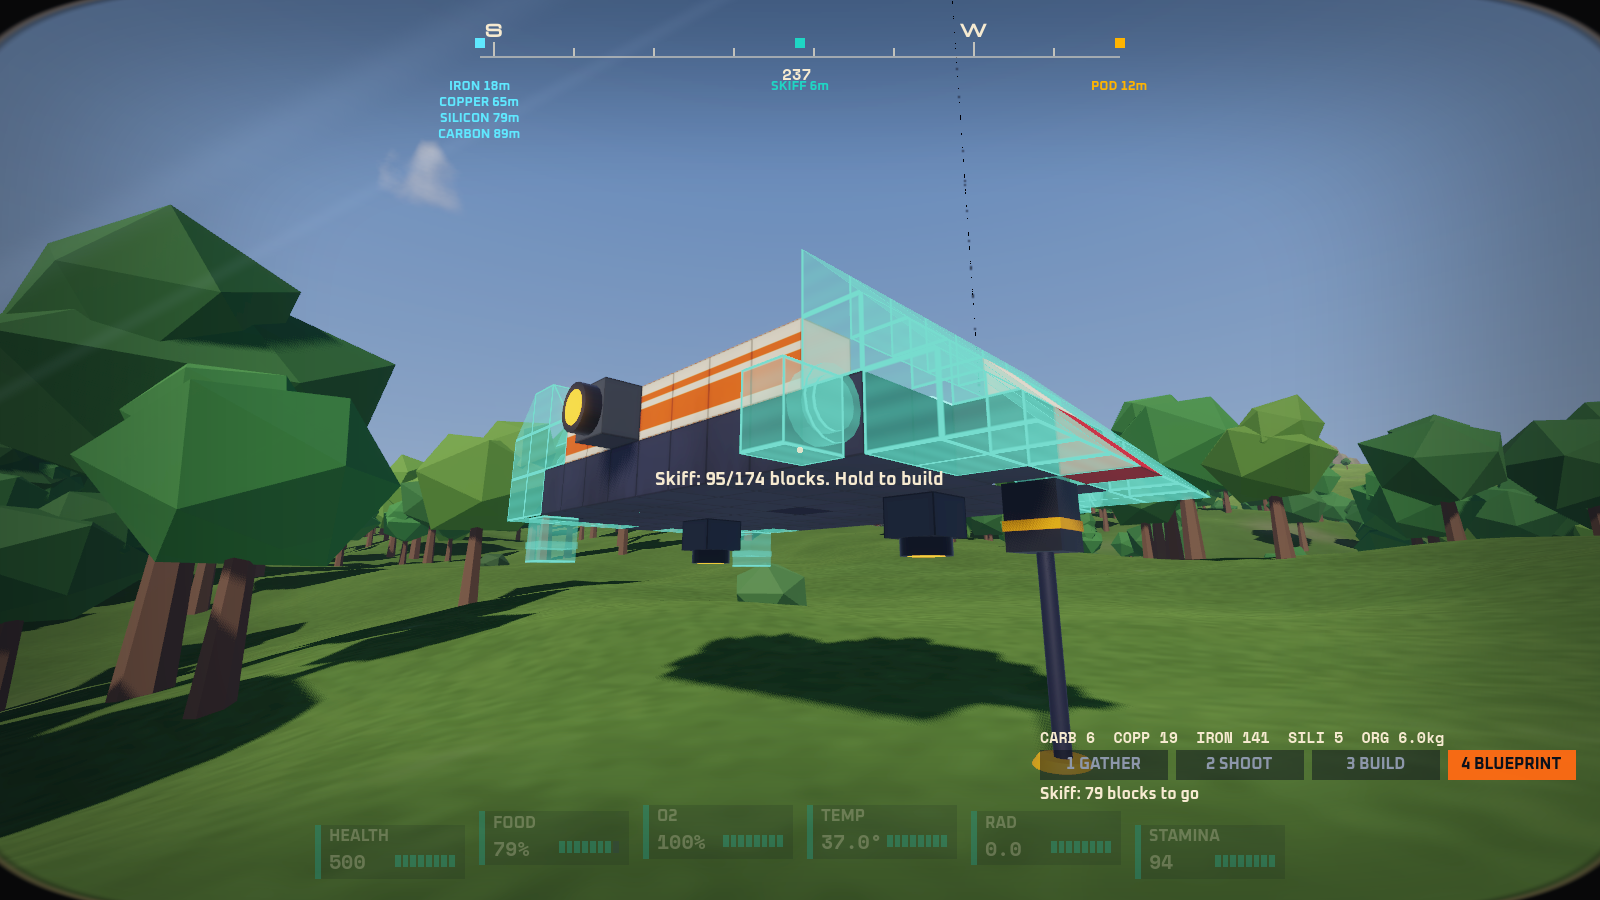
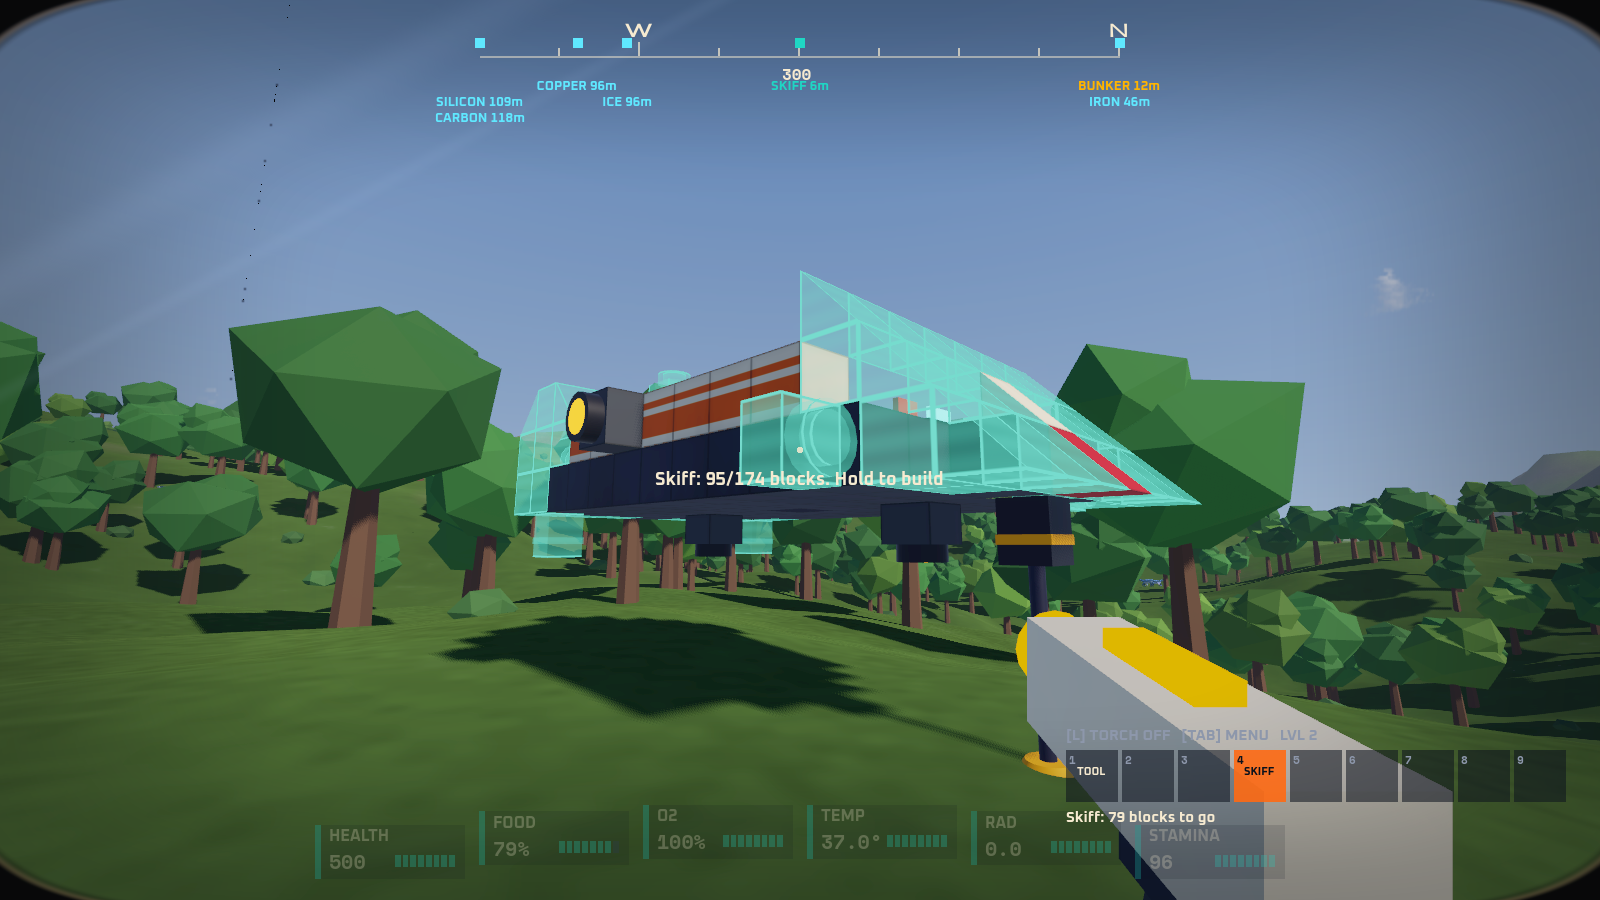
README and screenshots for fresh seeds and the bunker start
The README describes the start screen, the world choice and the cryo bunker, with the three
tests' latest results; new screenshots of the bunker's chamber, the climb out and a shot on
its wall, and the menu tabs rendered again; the pod's screenshot is gone with the pod.

diff --git a/prototypes/slice/README.md b/prototypes/slice/README.md
@@ -1,13 +1,15 @@
 # Prototype: the slice (phase 1, the ground loop)
 
-The first playable slice of GalHack's core loop, built from the proven prototypes and nothing else: crash-land in an escape pod on a generated planet, walk out of it, survive, gather, craft, found a base, run its machines, build a small vessel block by block and fly it. Every system is compiled in from where it lives; the slice itself is glue, a game layer and its tests.
+The first playable slice of GalHack's core loop, built from the proven prototypes and nothing else: wake in a buried cryopod bunker on a freshly generated planet, climb out, survive, gather, craft, found a base, run its machines, build a small vessel block by block and fly it. Every system is compiled in from where it lives; the slice itself is glue, a game layer and its tests.
 
+![Waking in the bunker: the one working cryopod open, the other sleepers dead in theirs](screenshots/bunker.png)
+![Climbing the bunker's stairwell, its fallen-in top open to the morning sky](screenshots/climb.png)
 ![The Tab menu, YOU: the bag and toolbar, the paperdoll with its equipment and vitals, the suit fabricator](screenshots/menu-you.png)
 ![The Tab menu, CORE: a placed survival constructor making a base core](screenshots/menu-core.png)
 ![The Tab menu, TECH: the base tree](screenshots/menu-tech.png)
 ![A creature's body opened beside the bag](screenshots/loot.png)
 ![A bolt in flight from the tool's muzzle, the sparks and scorches of the shots before it](screenshots/bolt.png)
-![Inside the pod: a shot scorches its wall, harmlessly](screenshots/podshot.png)
+![Inside the bunker: a shot scorches its wall, harmlessly](screenshots/bunkershot.png)
 ![Night, the head torch on](screenshots/torch.png)
 ![A base built by hand: core, container, generator, small constructor, steel; the survival constructor beside it](screenshots/base.png)
 ![A small vessel built by hand on its core, lifting off](screenshots/vessel.png)
@@ -20,11 +22,11 @@ Phase 1 is the ground loop. Orbit and boarding (phase 2) wait for the owner's go
 .\tools\godot.ps1 -Project prototypes/slice -Play
 ```
 
-The pod comes down at dawn. **F** unstraps you. **E** on the yellow locker inside opens it beside your bag: **TAKE ALL**. Walk out of the hatch. The compass shows the nearest deposit of each common ore and drops one once it is dug out.
+A new game opens on the start screen: **Survival** or **Creative**, the planet type (**temperate** is the easy one; ice, alien swamp, barren, lava, or random) and a seed (leave it empty for a fresh world, or type one to replay it). Then you wake at dawn in a cryopod. **F** opens it. **E** on the orange locker opens it beside your bag: **TAKE ALL**. Climb the stairs to the surface. The compass shows the nearest deposit of each common ore and drops one once it is dug out.
 
 ### The loop (Survival)
 
-1. **The crash.** Walk out of the pod's door and back in; the locker has food, patch kits and air cells.
+1. **The bunker.** Get out of the cryopod and empty the locker (food, patch kits, air cells); the stairwell climbs to the surface. Come back down whenever you like: it is your respawn point, but too small and broken to build on.
 2. **Gather.** The survival tool is on toolbar slot 1 (and in your hands). Hold the left button on ore to dig it (12 raw ore a cell), on a plant to cut it (biomass). **Q** switches it to shooting: a bolt you can see, sparks and a scorch where it lands. Shots only hurt creatures.
 3. **The suit fabricator** (Tab, YOU) makes the bare minimum from raw finds: the survival tool, rations, patch kits, air cells and a **placeable survival constructor**. It works while you play.
 4. **The survival constructor.** Drag it onto the toolbar, select it and click open ground. **E** on it opens its hopper beside your bag (STORE ALL); its panel is on Tab, **CORE**, when you stand by it. It refines ore into parts and makes the **base core**, the first blocks' parts and the next constructor up.
@@ -56,7 +58,7 @@ The Skiff blueprint is still there as a shortcut: drag **BLUEPRINT PROJECTOR** f
 | Tab | The menu (the game doesn't pause; you can still walk) | |
 | H, B | Helmet, the survival replicator | |
 | V | Third person | Chase camera |
-| R (dead) | Wake at the pod (your backpack stays where you fell, on the compass) | |
+| R (dead) | Wake in the bunker (your backpack stays where you fell, on the compass) | |
 | F3, Esc | Debug numbers, free the mouse | |
 
 ### The Tab menu
@@ -69,7 +71,7 @@ One full-screen menu, styled as the suit's own terminal (the diegetic UI's scree
 | **TECH** | The tech tree: Base, Capital Vessel, Small Vessel, Hover Vessel, Tools, Weapons, Misc. Nodes in columns by level, joined to their parents; locked nodes say what they need (level, points, parent); click one you can afford |
 | **STATS** | What you have done since the crash, and the master volume |
 | **CORE** | The structure you are in or next to (or a device you stand by), the nearest picked, a button to switch: its manufacturing (each constructor's orders above, its own sub-parts below, missing materials, ammo restock), its storage, its settings (core mode, gravity, power, lights, Home, auto-transmit) and its numbers (mass, power, CPU, storage; a vessel's four numbers, turn cap and lift margin) |
-| **MAP** | 300 or 600 m round you: structures, devices, the pod, your backpack, bodies and drops, the nearest deposits, creatures |
+| **MAP** | 300 or 600 m round you: structures, devices, the bunker, your backpack, bodies and drops, the nearest deposits, creatures |
 
 The visor stays minimal: vitals, warnings, the compass with contacts, the toolbar, what is in hand and its keys, the torch, short **+XP** lines and a **LEVEL UP** banner that never blocks play.
 
@@ -80,7 +82,7 @@ The visor stays minimal: vitals, warnings, the compass with contacts, the toolba
 | Physics | `shared/Physics` | One physics world for the zone: the survivor on the shared walk controller, riding hulls in cabin worlds and stepping off them onto the ground (`Riding.StepsOntoGround`), bases as fixed bodies walked on in the zone's world, every vessel one body flown by the handling model through the physics sandbox's bridges |
 | Items | `shared/Items` | The catalogue with the slice's additions (`data/items.json`, appended as it loads), `SharedStorage` under every bag, container and structure, `Constructor` for the suit fabricator, the survival constructor and every constructor block, `BlockPlacer` prices and refunds, `WorldRules` for Survival and Creative, the unlock and stack fields |
 | Terrain | `shared/Terrain`, `terrain-digging` | The planet as diggable voxels. `PlanetEdits` is the physics module's terrain editor; a base's blocks cut the ground they reach into |
-| Planet | `planet-generator`, `planet-surface` | The temperate starter world, streamed by planet-surface's `TerrainStreamer` with its sky, sea, fog and flora; trees are solid and felled for good |
+| Planet | `planet-generator`, `planet-surface` | A fresh world every game (the tests pin seed 7, temperate), streamed by planet-surface's `TerrainStreamer` with its sky, sea, fog and flora; trees are solid and felled for good |
 | Weather | `weather`, `planet-surface` | The weather model pushes bodies; planet-surface's effects and its wind and rain sounds |
 | Wildlife | `wildlife` | The planet's fauna on a patch that follows you, solid to you (blockers on the props layer), each species worth XP by toughness and danger; a dead creature's body is a container holding its drops |
 | Survival | `survival-vitals` | The suit (food, oxygen, temperature, radiation, stamina, health), warned before harm |
@@ -114,9 +116,10 @@ Expected time to each gate for an experienced player (from the real-player test'
 
 - **Warned before any harm.** Impacts use the physics module's one formula in full; the visor flashes IMPACT only while the body is airborne **and coming down** faster than the safe speed, never while lifting off on the jetpack. A creature's wind-up is heard and shown (THREAT) before its lunge.
 - **Nothing a player owns disappears.** A full bag sets things down in a container on the ground; a refund with nowhere to go likewise; a dead player's whole inventory is a backpack where they fell, marked on the compass and the map; bodies and drops stay until emptied.
-- **Every interaction asks the world you are in.** Aboard a structure, E, the tool and the build tool ray through its cabin world (a still copy of its blocks) as well as the zone's world beyond, so the locker answers from inside, a shot inside the pod scorches its wall (harmlessly) and the tool never digs through a floor.
+- **Every interaction asks the world you are in.** Aboard a structure, E, the tool and the build tool ray through its cabin world (a still copy of its blocks) as well as the zone's world beyond, so a locker answers from inside, a shot inside a structure scorches its wall (harmlessly) and the tool never digs through a floor.
 - **Walking out of a door hands you back to the planet at once.** A rider out of the interior with no block under its feet and the zone's ground within a step or two below leaves the cabin world there, onto the ground (`Riding.StepsOntoGround`).
-- **The pod's hatch is walkable.** It is 2 m high, and the pod comes to rest with its sill a short step above the ground in front of it; where the ground under it is higher, its landing carves its bed (through the terrain's edit API, before the ground streams in).
+- **A fresh world every game.** A new game rolls a fresh seed (`WorldChoice`); the start screen picks the planet type and can take a seed to replay one, and STATS shows the world and its seed. `-- --seed N --planet temperate|ice|swamp|barren|lava` pins both (tests and screenshots pin the tested world, seed 7 temperate, unless told otherwise). A save will keep its world's choice; the slice has no saves yet.
+- **Every game starts in a cryo bunker** (`src/Start/Bunker.cs`, `Game.Start.cs`). Its site is searched near the generator's landing site on any seed: dry and above the sea, 1.75 m of earth over its roof, even ground over it, no bedrock in the way, its stairs coming up level with the ground beyond, and turned to face the most striking skyline 300 to 1,200 m off. It is a fixed small-grid structure of the slice's own blocks (a 6.5 x 3 x 4.5 m chamber, a locker, a stairwell of half-metre steps whose top end has fallen open to the sky) set into rooms dug through the terrain's edit API before any ground streams in, dug tight round its own volume so its floor, walls and stairs are always solid and no gap is left to fall into. Four cryopods stand along its back wall; yours opens with F. It is a ruin: nothing can be built onto it and it is never a core of yours.
 - **A new vessel is built on a stand.** Its core holds 2 m above the ground where you set it, so its underside can be built; it holds there until first flown, then lands on its own legs. A blueprint's vessel instead stands on the ground as it grows (its lowest block on the highest ground under it), so no part of it hangs in the air.
 - **Small vessels turn no faster than 110 °/s** (`build.smallVesselMaxTurn`): the stick asks for a share of the handling model's turn rate.
 - **Machines have their own screens.** A placed survival constructor carries a screen on a mast at its front; every constructor block on a base, and the base's core, has one on a free face. They are diegetic-ui's world screens hung at standing eye height (`ScreenMount`), each showing the same panel as the CORE tab (`MachineScreens`). Look at one within 3 m: a cursor sits where you aim (`ScreenPointer`), and the left button clicks there instead of firing the tool. The Tab menu stays the main way in.
@@ -132,11 +135,11 @@ Expected time to each gate for an experienced player (from the real-player test'
 
 ### The real-player test (`tests/PlayerTest.tscn`)
 
-The loop played the way a person plays it, headless with `--fixed-fps 60`: the pod comes down for real with the castaway strapped in, and from then on only the game's own inputs are used (look, walk, keys, and the mouse on the Tab menu: every click and drag lands on a widget the menu laid out). No teleports, no grants, no skipped steps. The one help is a clearly printed **TEST TIME-SCALE** on crafting (40x), so an hour of fabricating fits in a run. Creatures are held still and the weather calm, so a predator can't decide the run.
+The loop played the way a person plays it, headless with `--fixed-fps 60`, on the tested world (seed 7, temperate; `-- --seed N --planet type` for another): the castaway wakes in the cryopod, and from then on only the game's own inputs are used (look, walk, keys, the mouse on the Tab menu and on in-world screens: every click and drag lands on a widget the panel laid out). No teleports, no grants, no skipped steps. The one help is a clearly printed **TEST TIME-SCALE** on crafting (40x), so an hour of fabricating fits in a run. Creatures are held still and the weather calm, so a predator can't decide the run.
 
-Latest run: **ALL PASSED, 73 checks** in 73 s of wall time (9 min of game time). The route and its numbers:
+Latest run: **ALL PASSED, 76 checks** in 60 s of wall time (9.5 min of game time). The route and its numbers:
 
-1. **The pod.** It comes down for real with the castaway strapped in. F unstraps; E on the locker from inside, TAKE ALL (4 trail rations, 2 patch kits, 2 air cells, 6 biomass). A shot inside the pod: a bolt from the muzzle and a scorch on its wall exactly at the aim, the pod unharmed; the tool digs nothing through its floor. Out of the door (1.6 s from the seat to the ground, handed back to the planet on stepping off, never rescued), back in, and out again.
+1. **The bunker.** The castaway wakes in the cryopod, its lid shut, 5.7 m under the ground. F opens it; out into the chamber; E on the locker, TAKE ALL (4 trail rations, 2 patch kits, 2 air cells, 6 biomass). A shot inside: a bolt from the muzzle and a scorch on the wall exactly at the aim, the bunker unharmed; the tool digs nothing through its floor. Up the stairwell's 12 steps to the surface on foot (6 s), 51 m away, back down the stairs into the chamber and out again, never rescued.
 2. **Gathering.** 1 puts the tool in hand (seen in the first-person hands); 20 cells of iron give 240 iron ore (12 a cell); the deposits near the start hold the whole loop's ore; a dug-out deposit drops off the compass; a plant cut gives 2 biomass.
 3. **Shooting.** A shot at the ground: bolt, sparks and a scorch 0.05 m from the aim. A hammerhead stalker shot down from 41 health, each hit with a bolt, a spray and the visor's marker: +21 XP.
 4. **The body and the inventory by hand.** Its body is a container (2 hide, 8 raw meat); E opens it beside the bag; a drag moves the meat, shift-click the hide, take all empties it, right-click splits a stack, a patch kit is dragged onto toolbar slot 8; the empty body goes once closed. Lifting off on the jetpack never flashes IMPACT.
@@ -145,15 +148,21 @@ Latest run: **ALL PASSED, 73 checks** in 73 s of wall time (9 min of game time).
 7. **The base.** The constructor makes the base's parts; the core set down founds a base (large grid, base mode, fixed body). Level 4 by then (514 XP): the small constructor unlocked on the TECH tab, blocks dragged from the palette to the toolbar, 5 large blocks built by looking and clicking, each paid from the bag; a right click takes one down and refunds its whole bill.
 8. **Level 5 and the small vessel's core.** STORE MY ORE AND MATERIALS; the base's small constructor makes the vessel's parts; **level 5 at 686 XP after 3.8 min of play** (crafting at the test time-scale); the small-vessel core, cockpit, thruster and gyro unlocked with points; the constructor makes the core.
 9. **The vessel.** The core set down starts a small vessel on its build stand; 17 of 17 blocks built from the toolbar (a seat on top from a jetpack hop, lift jets and a retro turned with R/T, a down jet, three legs), lift margin +67 kN, never in the ground. F at the seat; the CORE tab shows its four numbers; Space lifts it 108 m in 2 s; it flies 574 m at up to 70 m/s and lands on its gear, undamaged.
-10. **The rest.** Every tab opens by its own button; L toggles the head torch (45 m, 32°). A running jump off the hovering vessel from 115 m kills the castaway: everything carried is in a backpack where they fell; R wakes them in the pod; they walk to the marker, E, take all, everything back. The castaway is never rescued from the ground all run.
+10. **The rest.** Every tab opens by its own button; L toggles the head torch (45 m, 32°). A running jump off the hovering vessel from 115 m kills the castaway: everything carried is in a backpack where they fell; R wakes them in the bunker; they walk to the marker, E, take all, everything back. The castaway is never rescued from the ground all run.
 
-Game time at each step (min): pod 0.1, gathered 1.4, hunted 1.5, looted 1.5, base core 2.4, base 3.3, level 5 3.8, vessel core 3.8, vessel built 5.0, flown 6.7, recovered 8.6.
+Game time at each step (min): out 0.6, gathered 2.3, hunted 2.4, looted 2.5, base core 3.2, base 4.1, level 5 4.5, vessel core 4.6, vessel built 5.8, flown 7.6, recovered 9.5. Level 5 came at 693 XP after 4.5 minutes of play; the vessel flew 544 m and landed undamaged; a 113 m fall killed the castaway, R woke them in the bunker and they climbed out to their backpack.
 
 ### The systems test (`tests/SliceTest.tscn`)
 
-Determinism, the pod, gathering, cutting a tree (its collider gone the frame it falls), the Skiff blueprint built block by block and paid for, the same in Creative for nothing, a 2 km flight and landing, a hop flown twice to the tick, creatures warned before they bite, and nothing stuck in the ground. It starts beside the landed pod (the real-player test covers the descent) and, as a systems test, hands over the Skiff's parts and opens the tech tree: printed when it does.
+Fresh seeds, determinism, the bunker, gathering, cutting a tree (its collider gone the frame it falls), the Skiff blueprint built block by block and paid for, the same in Creative for nothing, a 2 km flight and landing, a hop flown twice to the tick, creatures warned before they bite, and nothing stuck in the ground. It starts with the cryopod already open (the real-player test wakes in it shut) and, as a systems test, hands over the Skiff's parts and opens the tech tree: printed when it does.
 
-Latest run: **ALL PASSED, 43 checks** in 28 s. The planet, its fauna and the starter blueprint generate identically twice; the weather opens calm for 12 minutes; the landing site is survivable (16.8 °C, 21 % oxygen) with 44 creatures of 9 species around it. In and out of the pod through its hatch, the locker emptied by TAKE ALL. Ore dug as real terrain (12 a cell, every common ore from the nearest deposits); a tree cut (+1.7 kg organics, +2 biomass, its collider gone the frame it falls). The Skiff blueprint built block by block (174 of 174, each paid for, four numbers as designed, never pushed out of the ground), the same in Creative for nothing; flown 2,133 m at up to 70 m/s and landed on its gear undamaged (main-thread cost 1.2 ms a frame in flight); a 4 s hop flown twice identically to the tick; a creature's attack warned (THREAT) 1.4 s before it bites; nothing stuck in the ground, no vessel rescued.
+Latest run: **ALL PASSED, 43 checks** in 35 s. Two fresh games roll different seeds, and `--seed`/`--planet` pin both; the planet, its fauna and the starter blueprint generate identically twice; the weather opens calm for 12 minutes. The cryo bunker is dug in at the start site, 5.8 m under the ground and above the sea, 19 m from the generator's landing site, 12 steps up; the castaway wakes in their cryopod with 3 dead sleepers beside it; the start site is survivable with the planet's own wildlife around it. The locker emptied by TAKE ALL and up the stairwell on foot, never rescued. Ore dug as real terrain (12 a cell, every common ore from the nearest shallow deposits); a tree cut (its collider gone the frame it falls). The Skiff blueprint built block by block (174 of 174, each paid for, never pushed out of the ground), the same in Creative for nothing; flown over 2 km and landed on its gear undamaged; a 4 s hop flown twice identically to the tick; a creature's attack warned (THREAT) before it bites; nothing stuck in the ground.
+
+### The start test (`tests/StartTest.tscn`)
+
+The owner's first concern: that you can always get out. On five fresh worlds (each game rolls its own seed) and one of every other planet type, the castaway wakes in the cryopod, opens it, takes the locker's kit, climbs the stairwell to the surface, walks 50 m away over dry ground, comes back down into the chamber and climbs out again, with the game's inputs only. A watch on every tick proves no teleports (the castaway never moves more than half a metre in a tick) and no rescues. `-- --seeds N` runs more worlds; `-- --seed N --planet type` one.
+
+Latest run: **ALL PASSED, 92 checks** in 43 s. Seeds 650102798, 85240623, 554930613, 472739100 and 124332800 (temperate), 500687335 (ice), 696836522 (alien swamp), 191788404 (barren) and 947958248 (lava): start sites 0 to 224 m from the landing sites, 8 to 22 steps up, each facing a skyline 436 to 1,213 m off; out, 50 m away and back in 34 to 58 s of play each; two fresh games rolled different seeds.
 
 ### Screenshots
 
@@ -165,7 +174,7 @@ dotnet build prototypes/slice/Slice.csproj
 & $GodotEditor --position 20000,20000 --path prototypes/slice res://tests/Screenshot.tscn -- --view=menu --tab=you --out="$PWD/menu-you.png"
 ```
 
-Views: `menu` (with `--tab=you|tech|stats|core|map`), `loot`, `bolt`, `podshot`, `torch`, `base`, `vessel`, and the earlier `pod`, `dig`, `build`, `liftoff`, `flying`, `cockpit`, `descent`.
+Views: `bunker`, `climb`, `bunkershot`, `menu` (with `--tab=you|tech|stats|core|map`), `loot`, `bolt`, `torch`, `base`, `vessel`, `dig`, `build`, `liftoff`, `flying`, `cockpit`. Add `--seed=N --planet=type` for another world.
 
 ## Pacing
 
@@ -173,7 +182,7 @@ The design target is a small vessel within one to two hours for an experienced p
 
 | Step | What it takes | An experienced player |
 | --- | --- | --- |
-| Out of the pod, locker emptied | | 1 min |
+| Out of the cryopod, locker emptied, up the stairs | | 1 min |
 | Ore for the whole loop (about 800 raw: iron, copper, carbon, silicon, a little ice and stone) | 45 ore/min | 18 min of digging, spread over the run |
 | Survival constructor (suit fabricator, 20 s) | 28 ore | at about 4 min |
 | Base core and the foothold's parts (survival constructor, half speed) | about 280 runs | 12 to 15 min, while gathering |
@@ -222,8 +231,9 @@ The owner asked "how did Empyrion do it?" for the inventory, the tech tree and t
 
 ## Known limits
 
-- **Phase 1 only:** no orbit, boarding or saves yet; the planet is the starter world every time. Progress lives in one `ProgressState` ready for phase 3's saves.
-- **The escape pod is going**: the design now starts every game in a buried cryopod bunker (a follow-up). The start sequence (`Game.OnPlanetBuilt`, `Descend`) and the starting kit (`materials.podLocker`, `materials.toolbar` in `data/slice.json`) are kept separate so the bunker can replace the pod with little rework. The pod got only what the loop needs: a walkable hatch and its locker.
+- **Phase 1 only:** no orbit, boarding or saves yet. Progress lives in one `ProgressState` ready for phase 3's saves.
+- **The escape pod and its descent are gone**; the bunker start lives in `Game.Start.cs` and `src/Start/Bunker.cs`, apart from the rest. **No POI on the horizon yet**: the slice doesn't draw POIs (planet-surface's POI layer isn't compiled in), so the stairs face the most striking skyline instead; once POIs are drawn, the site search can prefer one in view 300 to 1,200 m off.
+- **Lava and ice worlds** start like any other (the test climbs out and walks 50 m on each), but the slice hasn't tuned survival on them beyond that.
 - **Blocks are not items** (shared/Items' rule): the toolbar holds block shortcuts paid from storage at placement, not stacks of blocks as in Empyrion. Cores are the exception, made as items in the slice's own data.
 - **Equipment is read-only**: the paperdoll's armour and booster slots show the survival suit's; there are no armour items to drag in yet.
 - **Power is a switch**: a generator on a structure powers its machines; fuel isn't burned yet, and the lights toggle doesn't switch light blocks yet.
